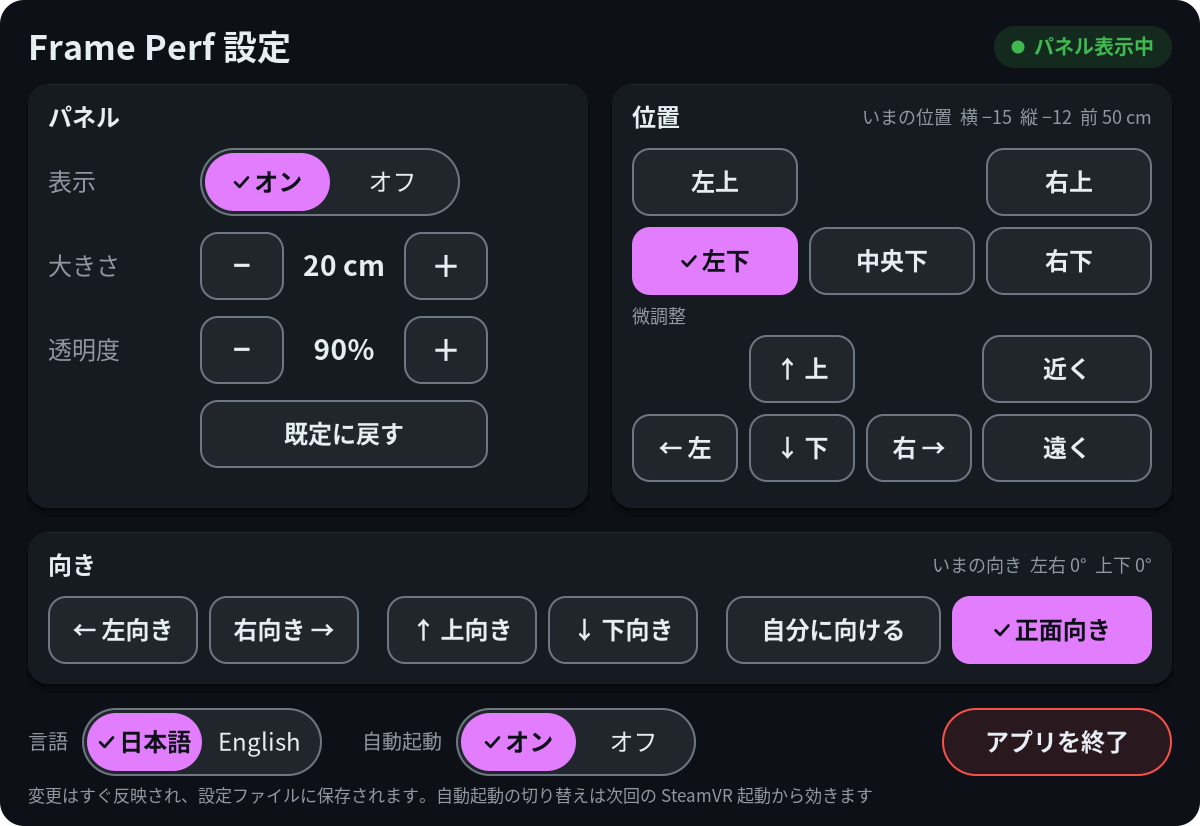
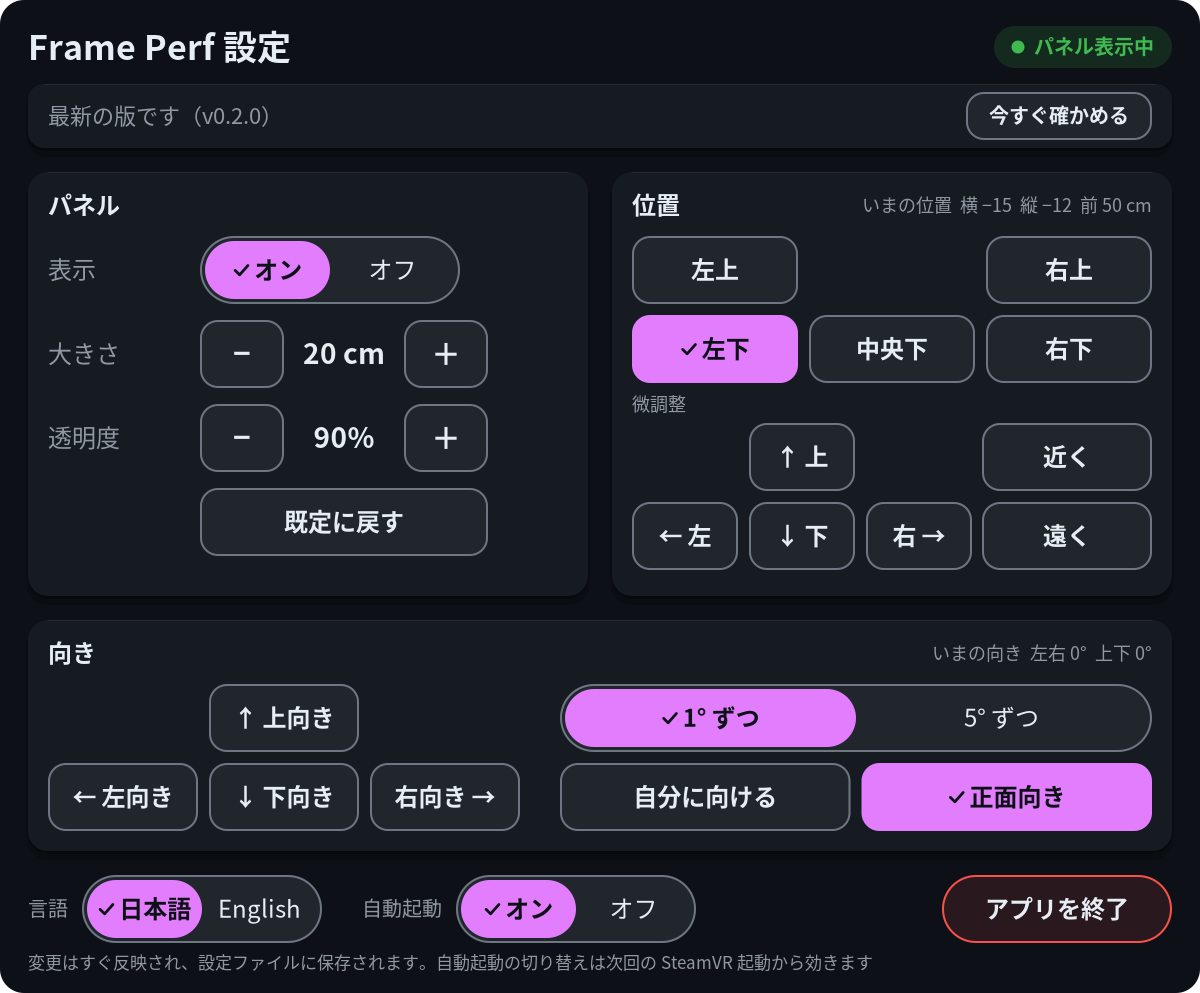
向きの刻みを「1° ずつ / 5° ずつ」で切り替えられるように
- 向きのカードを 2 段にし、刻みのセグメント切り替えを追加（起動中だけ覚える。既定 1°）
- README の設定パネルの画像を更新

diff --git a/src/settings_panel.cpp b/src/settings_panel.cpp
@@ -13,9 +13,9 @@
 
 namespace {
 
-// 1200×914 を幅 2.8m で出す（1px あたりの大きさは前の 1024px / 2.4m とほぼ同じ）
+// 1200×993 を幅 2.8m で出す（1px あたりの大きさは前の 1024px / 2.4m とほぼ同じ）
 constexpr int kWidth = 1200;
-constexpr int kHeight = 914;
+constexpr int kHeight = 993;
 constexpr double kPad = 28;          // パネルの外側の余白
 constexpr double kButtonH = 68;      // ボタンの高さ（レーザーで押しやすい大きさ。前と同じ）
 constexpr double kUpdateBarY = 84;    // 見出しの下、新しい版の確認の帯（いつも見えている行）
@@ -46,13 +46,14 @@ constexpr double kDepthW = 170;
 // 下の横長のカード「向き」
 constexpr double kCardGap = 24;                    // カードどうしの間（左右のカードの間と同じ）
 constexpr double kFacingCardY = kCardY + kCardH + kCardGap;
-constexpr double kFacingCardH = 152;
+constexpr double kFacingCardH = 64 + 2 * kButtonH + kPresetGap + 20;  // 2 段
 constexpr double kFacingCardX = kPad;
 constexpr double kFacingCardW = kWidth - kPad * 2;
-constexpr double kFacingRowY = kFacingCardY + 64;  // ボタンの上端（ほかのカードと同じ）
-constexpr double kFacingArrowW = 150;              // ← 左向き / 右向き → / ↑ 上向き / ↓ 下向き
-constexpr double kFacingGroupGap = 28;             // 左右・上下・自分に向けるの組の間
-constexpr double kFaceMeW = 215;
+constexpr double kFacingRowY = kFacingCardY + 64;  // 1 段目のボタンの上端（ほかのカードと同じ）
+constexpr double kFacingRow2Y = kFacingRowY + kButtonH + kPresetGap;
+constexpr double kFacingArrowW = 150;              // ← 左向き / 右向き → / ↑ 上向き / ↓ 下向き（十字に並べる）
+constexpr double kFacingRightX = kFacingCardX + kCardPad + 3 * kFacingArrowW + 2 * kPresetGap + 40;  // 十字の右
+constexpr double kFacingRightW = kFacingCardX + kFacingCardW - kCardPad - kFacingRightX;
 // 下の段
 constexpr double kFooterY = kFacingCardY + kFacingCardH + kCardGap;
 constexpr double kFooterSegmentW = 240;
@@ -61,7 +62,6 @@ constexpr double kQuitW = 230;
 constexpr double kNudgeM = 0.02;       // 上下左右の微調整（m）
 constexpr double kDepthStepM = 0.05;   // 前後の微調整（m）
 constexpr double kPresetDistance = 0.5;  // プリセットの座標はこの距離での値
-constexpr double kAngleStepDeg = 1.0;    // 向きの 1 回の変化（度）
 
 /** 位置のプリセット（距離 0.5m での x, y）。 */
 struct Preset {
@@ -116,16 +116,18 @@ std::string signedCm(double meters) {
 }
 
 /**
- * 角度を 1° 刻みの次の目盛りへ進める（例: 16.7° から増やすと 17°、減らすと 16°）。範囲の外には出さない。
+ * 角度を刻みの次の目盛りへ進める（例: 16.7° から、1° 刻みなら増やすと 17°・減らすと 16°、
+ * 5° 刻みなら増やすと 20°・減らすと 15°）。範囲の外には出さない。
  * @param degrees 今の角度（度）
  * @param direction +1 で増やす、-1 で減らす
  * @param limit 範囲（±limit）
+ * @param step 刻み（度）
  * @return 新しい角度（度）
  */
-double stepAngle(double degrees, int direction, double limit) {
-    const double steps = degrees / kAngleStepDeg;
+double stepAngle(double degrees, int direction, double limit, double step) {
+    const double steps = degrees / step;
     const double next = direction > 0 ? std::floor(steps + 1e-6) + 1 : std::ceil(steps - 1e-6) - 1;
-    return std::clamp(next * kAngleStepDeg, -limit, limit);
+    return std::clamp(next * step, -limit, limit);
 }
 
 /**
@@ -151,7 +153,7 @@ bool isFacingForward(const Config& config) {
 
 }  // namespace
 
-bool applySettingsAction(SettingsAction action, Config& config) {
+bool applySettingsAction(SettingsAction action, Config& config, double angleStepDeg) {
     const Config before = config;
     switch (action) {
         case SettingsAction::ShowOn: config.visible = true; break;
@@ -189,10 +191,10 @@ bool applySettingsAction(SettingsAction action, Config& config) {
             break;
         }
         // 向き（位置は変えない）
-        case SettingsAction::YawLeft: config.yawDeg = stepAngle(config.yawDeg, -1, 180.0); break;
-        case SettingsAction::YawRight: config.yawDeg = stepAngle(config.yawDeg, +1, 180.0); break;
-        case SettingsAction::PitchUp: config.pitchDeg = stepAngle(config.pitchDeg, +1, 90.0); break;
-        case SettingsAction::PitchDown: config.pitchDeg = stepAngle(config.pitchDeg, -1, 90.0); break;
+        case SettingsAction::YawLeft: config.yawDeg = stepAngle(config.yawDeg, -1, 180.0, angleStepDeg); break;
+        case SettingsAction::YawRight: config.yawDeg = stepAngle(config.yawDeg, +1, 180.0, angleStepDeg); break;
+        case SettingsAction::PitchUp: config.pitchDeg = stepAngle(config.pitchDeg, +1, 90.0, angleStepDeg); break;
+        case SettingsAction::PitchDown: config.pitchDeg = stepAngle(config.pitchDeg, -1, 90.0, angleStepDeg); break;
         case SettingsAction::FaceMe: faceHead(config); break;
         case SettingsAction::FaceForward:
             config.yawDeg = 0.0;
@@ -219,6 +221,8 @@ bool applySettingsAction(SettingsAction action, Config& config) {
         case SettingsAction::UpdateConfirmNo:
         case SettingsAction::UpdateRetry:
         case SettingsAction::UpdateDismiss:
+        case SettingsAction::AngleStep1:  // 刻みは設定パネルの中だけで覚える（設定ファイルは変えない）
+        case SettingsAction::AngleStep5:
         case SettingsAction::None: break;
     }
     return config.visible != before.visible || config.posX != before.posX || config.posY != before.posY ||
@@ -287,19 +291,18 @@ void SettingsPanel::layoutButtons() {
     add(SettingsAction::MoveNear, kDepthX, kNudgeY, kDepthW, kButtonH);
     add(SettingsAction::MoveFar, kDepthX, arrowRow2, kDepthW, kButtonH);
 
-    // 下のカード「向き」: 左右の組・上下の組・自分に向ける / 正面向きを 1 列に
-    double x = kFacingCardX + kCardPad;
-    add(SettingsAction::YawLeft, x, kFacingRowY, kFacingArrowW, kButtonH);
-    x += kFacingArrowW + kPresetGap;
-    add(SettingsAction::YawRight, x, kFacingRowY, kFacingArrowW, kButtonH);
-    x += kFacingArrowW + kFacingGroupGap;
-    add(SettingsAction::PitchUp, x, kFacingRowY, kFacingArrowW, kButtonH);
-    x += kFacingArrowW + kPresetGap;
-    add(SettingsAction::PitchDown, x, kFacingRowY, kFacingArrowW, kButtonH);
-    x += kFacingArrowW + kFacingGroupGap;
-    add(SettingsAction::FaceMe, x, kFacingRowY, kFaceMeW, kButtonH);
-    x += kFaceMeW + kPresetGap;
-    add(SettingsAction::FaceForward, x, kFacingRowY, kFacingCardX + kFacingCardW - kCardPad - x, kButtonH);
+    // 下のカード「向き」: 左は位置の微調整と同じ十字（上の段に ↑、下の段に ← ↓ →）。
+    // 右の上の段は刻みの 1° / 5° の切り替え、下の段は自分に向ける / 正面向き
+    const double facingCol[3] = {kFacingCardX + kCardPad, kFacingCardX + kCardPad + kFacingArrowW + kPresetGap,
+                                 kFacingCardX + kCardPad + 2 * (kFacingArrowW + kPresetGap)};
+    add(SettingsAction::PitchUp, facingCol[1], kFacingRowY, kFacingArrowW, kButtonH);
+    add(SettingsAction::YawLeft, facingCol[0], kFacingRow2Y, kFacingArrowW, kButtonH);
+    add(SettingsAction::PitchDown, facingCol[1], kFacingRow2Y, kFacingArrowW, kButtonH);
+    add(SettingsAction::YawRight, facingCol[2], kFacingRow2Y, kFacingArrowW, kButtonH);
+    segmented(kFacingRightX, kFacingRowY, kFacingRightW, SettingsAction::AngleStep1, SettingsAction::AngleStep5);
+    const double faceW = (kFacingRightW - kPresetGap) / 2;
+    add(SettingsAction::FaceMe, kFacingRightX, kFacingRow2Y, faceW, kButtonH);
+    add(SettingsAction::FaceForward, kFacingRightX + faceW + kPresetGap, kFacingRow2Y, faceW, kButtonH);
     // 下の段の言語・自動起動・終了は、見出しの幅が言語で変わるので render() のたびに置き直す
 }
 
@@ -327,6 +330,8 @@ std::string SettingsPanel::labelOf(SettingsAction action, const UiText& text) co
         case SettingsAction::PitchDown: return text.pitchDown;
         case SettingsAction::FaceMe: return text.faceMe;
         case SettingsAction::FaceForward: return text.faceForward;
+        case SettingsAction::AngleStep1: return text.angleStep1;
+        case SettingsAction::AngleStep5: return text.angleStep5;
         case SettingsAction::SizeDown:
         case SettingsAction::AlphaDown: return "−";
         case SettingsAction::SizeUp:
@@ -384,6 +389,11 @@ SettingsAction SettingsPanel::pointerDown(double x, double y, double now) {
     }
     // ここまで来たら確認の表示は終わり（Yes で実行するときも、ほかのボタンを押して取り消すときも）
     updateConfirmArmed_ = false;
+    if (pressed_ == SettingsAction::AngleStep1 || pressed_ == SettingsAction::AngleStep5) {
+        // 刻みはこのパネルの中だけで覚える（設定ファイルには保存しない）
+        angleStepDeg_ = pressed_ == SettingsAction::AngleStep5 ? 5.0 : 1.0;
+        return SettingsAction::None;
+    }
     return pressed_;
 }
 
@@ -592,6 +602,8 @@ void SettingsPanel::drawFacingCard(const Pen& pen, const UiText& text, const Con
          {SettingsAction::YawLeft, SettingsAction::YawRight, SettingsAction::PitchUp, SettingsAction::PitchDown}) {
         drawButton(pen, text, action, false, 24);
     }
+    drawSegmented(pen, text, SettingsAction::AngleStep1, SettingsAction::AngleStep5, angleStepDeg_ == 5.0 ? 1 : 0,
+                  true);
     // 今その向きになっていれば ✓（位置のプリセットと同じ見せ方）
     drawButton(pen, text, SettingsAction::FaceMe, isFacingHead(config), 24);
     drawButton(pen, text, SettingsAction::FaceForward, isFacingForward(config), 24);

diff --git a/src/settings_panel.h b/src/settings_panel.h
@@ -39,6 +39,8 @@ enum class SettingsAction {
     PitchDown,    ///< 面を下へ向ける（pitch を減らす）
     FaceMe,       ///< 今の位置のまま、面を頭に向ける
     FaceForward,  ///< 回転なし（0, 0, 0）に戻す
+    AngleStep1,   ///< 向きのボタンの刻みを 1° に（設定パネルの中だけで扱う）
+    AngleStep5,   ///< 向きのボタンの刻みを 5° に（設定パネルの中だけで扱う）
     SizeDown,
     SizeUp,
     AlphaDown,
@@ -59,9 +61,10 @@ enum class SettingsAction {
  * 操作を設定に反映する（Quit と None は何もしない）。
  * @param action 操作
  * @param config 書き換える設定
+ * @param angleStepDeg 向きのボタン（左右・上下）の刻み（度。1 か 5）。その刻みの目盛りに寄せて動かす
  * @return 設定が変わったら true
  */
-bool applySettingsAction(SettingsAction action, Config& config);
+bool applySettingsAction(SettingsAction action, Config& config, double angleStepDeg = 1.0);
 
 /**
  * 設定パネルの画像を描き、レーザーポインターの位置からボタンを判定する係。
@@ -151,6 +154,12 @@ public:
     /** @return 画像の高さ（px） */
     int height() const;
 
+    /**
+     * 向きのボタン（左右・上下）の今の刻み。設定ファイルには保存せず、起動するたびに 1° から始まる。
+     * @return 刻み（度。1 か 5）
+     */
+    double angleStepDeg() const { return angleStepDeg_; }
+
 private:
     /** ボタン 1 個。文言は描くときに言語の表から引く。 */
     struct Button {
@@ -169,6 +178,7 @@ private:
     bool quitArmed_ = false;
     double quitArmedUntil_ = 0.0;
     bool updateConfirmArmed_ = false;  ///< 「更新する」を 1 回押して、確認の表示を出している間
+    double angleStepDeg_ = 1.0;        ///< 向きのボタンの刻み（度）。「1° ずつ / 5° ずつ」で切り替える（起動中だけ覚える）
 
     /** 左右と向きのカードのボタンの配置を作る（起動時に 1 回。下の段は render() のたびに置き直す）。 */
     void layoutButtons();
@@ -254,7 +264,7 @@ private:
     void drawPositionCard(const Pen& pen, const UiText& text, const Config& config) const;
 
     /**
-     * 下の横長のカード「向き」（左右・上下の向き、自分に向ける、正面向き、いまの向き）を描く。
+     * 下の横長のカード「向き」（左右・上下の向きの十字、刻みの 1° / 5°、自分に向ける、正面向き、いまの向き）を描く。
      * @param pen 描画の道具
      * @param text 言語の表
      * @param config 今の設定

diff --git a/src/main.cpp b/src/main.cpp
@@ -604,9 +604,11 @@ int runDumpFrameTimings(const Options& options) {
  * @param config 今の設定（書き換える）
  * @param watcher 設定ファイルの監視役（自分の書き込みを読み直さないよう知らせる）
  * @param vr オーバーレイ
+ * @param angleStepDeg 向きのボタンの刻み（度。設定パネルの「1° ずつ / 5° ずつ」）
  */
-void handleSettingsAction(SettingsAction action, Config& config, ConfigWatcher& watcher, VrOverlay& vr) {
-    if (!applySettingsAction(action, config)) return;
+void handleSettingsAction(SettingsAction action, Config& config, ConfigWatcher& watcher, VrOverlay& vr,
+                          double angleStepDeg = 1.0) {
+    if (!applySettingsAction(action, config, angleStepDeg)) return;
     vr.applyConfig(config);
     std::string error;
     if (saveConfig(watcher.path(), config, error)) {
@@ -836,7 +838,7 @@ int runOverlay(const Options& options) {
                     } else if (action == SettingsAction::UpdateDismiss) {
                         updater.dismiss();
                     } else {
-                        handleSettingsAction(action, config, watcher, vr);
+                        handleSettingsAction(action, config, watcher, vr, settings.angleStepDeg());
                     }
                     settingsDirty = true;
                     break;

diff --git a/src/i18n.cpp b/src/i18n.cpp
@@ -71,7 +71,7 @@ const UiText kJapanese = {
     "← 左", "右 →", "↑ 上", "↓ 下", "近く", "遠く",
     "既定に戻す", "アプリを終了", "もう一度押すと終了",
     "いまの位置", "横", "縦", "前",
-    "向き", "← 左向き", "右向き →", "↑ 上向き", "↓ 下向き", "自分に向ける", "正面向き",
+    "向き", "← 左向き", "右向き →", "↑ 上向き", "↓ 下向き", "自分に向ける", "正面向き", "1° ずつ", "5° ずつ",
     "いまの向き", "左右", "上下", "回転",
     "変更はすぐ反映され、設定ファイルに保存されます",
     // 更新
@@ -105,7 +105,7 @@ const UiText kEnglish = {
     "← Left", "Right →", "↑ Up", "↓ Down", "Closer", "Farther",
     "Reset", "Quit app", "Press again to quit",
     "Now", "x", "y", "z",
-    "Facing", "← Left", "Right →", "↑ Up", "↓ Down", "Face me", "Face ahead",
+    "Facing", "← Left", "Right →", "↑ Up", "↓ Down", "Face me", "Face ahead", "By 1°", "By 5°",
     "Now", "yaw", "pitch", "roll",
     "Changes apply instantly and are saved",
     // Updates

diff --git a/src/i18n.h b/src/i18n.h
@@ -89,6 +89,8 @@ struct UiText {
     const char* pitchDown;      ///< 面を下へ向ける
     const char* faceMe;         ///< 自分に向ける
     const char* faceForward;    ///< 正面向き（回転なし）
+    const char* angleStep1;     ///< 向きのボタンを 1° ずつ動かす
+    const char* angleStep5;     ///< 向きのボタンを 5° ずつ動かす
     const char* facingNow;      ///< いまの向き（後ろに左右・上下・回転が続く）
     const char* yawName;
     const char* pitchName;

diff --git a/CHANGELOG.md b/CHANGELOG.md
@@ -14,7 +14,7 @@
 ### 設定・操作
 
 - 性能パネルを回転できるようにした。設定ファイルの `rotation`（`yaw` / `pitch` / `roll`、度）で、左右の向き・上下の傾き・画面内の回転を決める。既定は全部 0（今までと同じ、顔の正面と平行）。範囲外の値は丸め（±180 / ±90 / ±180）、知らないキーはログで知らせる。
-- ダッシュボードの「Perf」タブに「向き」のカードを足した: 左右・上下の向きを 1° ずつ、「自分に向ける」（位置はそのままで面を頭へ向ける。roll は 0 に）、「正面向き」（回転なし）。今の向きの値を見出しの右に出す。設定パネルは 1200×826 になった。
+- ダッシュボードの「Perf」タブに「向き」のカードを足した: 左右・上下の向き（「1° ずつ / 5° ずつ」で 1 回に動く量を切り替え、その刻みの目盛りにそろえる。刻みは保存せず、起動するたびに 1°）、「自分に向ける」（位置はそのままで面を頭へ向ける。roll は 0 に）、「正面向き」（回転なし）。今の向きの値を見出しの右に出す。設定パネルは 1200×993 になった。
 - 位置のボタン（左上・右下など）を押すと、その位置で自動的に自分に向ける。微調整（上下左右・近く / 遠く）では向きを変えない。
 - 「既定に戻す」で向きも既定（回転なし）に戻す。
 - `--verbose` のとき、向きを変えるたびに、SteamVR が計算したパネルの向き（光線の当たり）と、こちらで計算した向きをログに出す。

diff --git a/README.md b/README.md
@@ -81,7 +81,8 @@ Options:
   | Top L / Top R / Bottom L / Bottom C / Bottom R | Move the panel to that corner of your view and turn it to face you |
   | ← Left / Right → / ↑ Up / ↓ Down | Nudge the panel by 2 cm. The facing stays as it is |
   | Closer / Farther | Move it 5 cm nearer or further (20 cm to 3 m), keeping the direction |
-  | Facing: ← Left / Right → / ↑ Up / ↓ Down | Turn the panel's face in 1° steps (left/right up to ±180°, up/down up to ±90°) |
+  | Facing: ← Left / Right → / ↑ Up / ↓ Down | Turn the panel's face by the chosen step (left/right up to ±180°, up/down up to ±90°). It snaps to the step: at 16.7°, By 5° goes to 20° or 15° |
+  | By 1° / By 5° | How far one press of the facing arrows turns the panel. Starts at 1° each time the app starts (not saved) |
   | Face me | Keep the position and turn the panel so it faces your head |
   | Face ahead | Remove the rotation, so the panel is parallel to your face again (the look before this feature) |
   | Language | English or Japanese, applied immediately |
